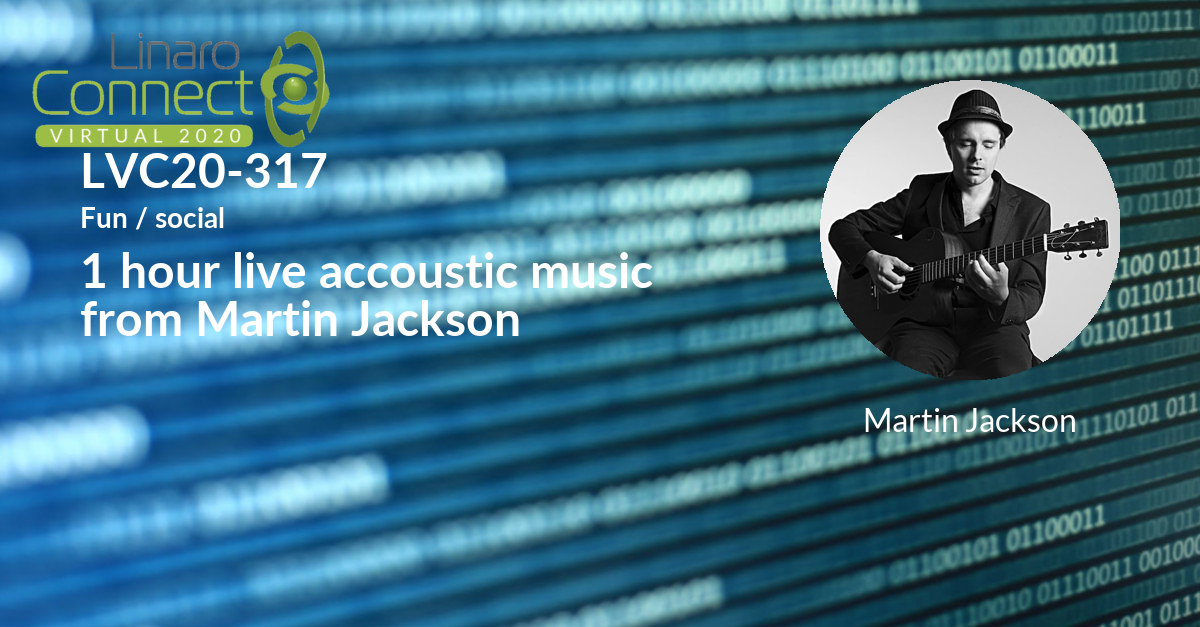
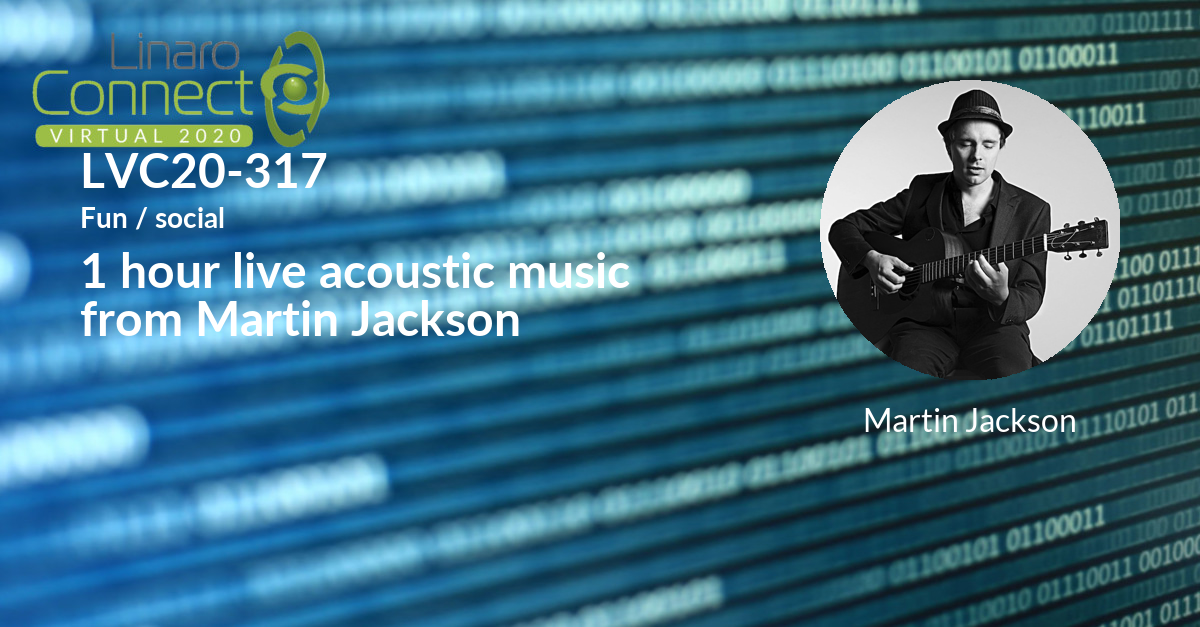
Event updates as of 200925-0946

Changed region(s): [[0.3083, 0.3939, 0.555, 0.4848]]

diff --git a/_posts/lvc20/sessions/2020-09-25-lvc20-303.md b/_posts/lvc20/sessions/2020-09-25-lvc20-303.md
@@ -1,0 +1,40 @@
+---
+categories:
+- lvc20
+description: "<p>From being called the 'new gold / oil', Big data technologies from\
+  \ its peak hype cycle have now matured as quintessential technology that powers\
+  \ many of today&rsquo;s businesses and enterprises. Most companies have changed\
+  \ themselves from being data-generating to data-powered, making use of actionable\
+  \ data and business insights. Big data is not just one piece of technology (Hadoop\
+  \ or Spark), rather it is a huge ecosystem, an assembly line of technologies and\
+  \ processes. There has been an increase in focus on data science and machine learning\
+  \ as a logical next step of evolution of Big Data. Data Strategy governs the quality\
+  \ of the data which acts as a precursor to data science and machine learning.</p>\r\
+  \n<p>In this talk, we will look at where ARM stands in regards to having big data\
+  \ systems running in production. We will look at various achievements in the last\
+  \ few years and also understand where we stand currently in the process of making\
+  \ ARM as the first class citizen. We will also cover some of the pain points we\
+  \ have faced and what is important to work on in the near future and beyond.</p>\r\
+  \n<p>Please join if you would like to know the status of Linaro&rsquo;s BDDS team\
+  \ and its roadmap.</p>\r\n<br />"
+image: /assets/images/featured-images/lvc20/LVC20-303.png
+session_id: LVC20-303
+session_room: '[Track 3] DataCenter'
+session_slot:
+  end_time: 2020-09-24 16:10
+  start_time: 2020-09-24 15:45
+session_speakers:
+- speaker_bio: Contributor to Apache Bigtop and other big data projects&lt;br /&gt;
+    Past TSC member of ODPi&lt;br /&gt; Vast implementation experience in Big Data
+    technologies.&lt;br /&gt; Working as Tech Lead - Big Data at Linaro for past 5
+    years
+  speaker_company: Linaro
+  speaker_image: http://avatars.sched.co/2/ed/7249937/avatar.jpg.320x320px.jpg?6ac
+  speaker_name: Ganesh Raju
+  speaker_position: Tech Lead, Big Data and Data Science Team
+  speaker_role: attendee, speaker
+session_track: Big Data
+tag: session
+tags: Big Data
+title: LVC20-303 State of Big Data and Data Science on ARM
+---

diff --git a/_posts/lvc20/sessions/2020-09-25-lvc20-220.md b/_posts/lvc20/sessions/2020-09-25-lvc20-220.md
@@ -1,10 +1,10 @@
 ---
 categories:
 - lvc20
-description: Class Description:<br><br>Join Kassidy for a 1 hour foundational vinyasa
+description: Class Description:<br><br>Join Kassidy for a 1-hour foundational vinyasa
   flow. In this class, we will move through a series of poses meant to ease tension
   in the shoulders, chest, and back. These are areas in the body that are often stressed
-  and over stretched while working at a computer or desk. Remember to bring something
+  and over-stretched while working at a computer or desk. Remember to bring something
   comfy to practice on, a mat, towel, or blanket!
 image: /assets/images/featured-images/lvc20/LVC20-220.png
 session_id: LVC20-220

diff --git a/_posts/lvc20/sessions/2020-09-25-lvc20-304.md b/_posts/lvc20/sessions/2020-09-25-lvc20-304.md
@@ -10,6 +10,12 @@ session_slot:
   end_time: 2020-09-24 16:50
   start_time: 2020-09-24 16:15
 session_speakers:
+- speaker_bio: Engineer at Linaro Ltd.
+  speaker_company: Linaro
+  speaker_image: http://avatars.sched.co/c/0f/1631652/avatar.jpg.320x320px.jpg?109
+  speaker_name: Amit Pundir
+  speaker_position: Engineer
+  speaker_role: attendee, speaker
 - speaker_bio: Yongqin Liu is a software engineer on the Linaro Consumer Group, and
     mainly works on LCR builds maintenance, SELinux, and optimizations on ARM processors
     for Android platform.

diff --git a/_posts/lvc20/sessions/2020-09-25-lvc20-105.md b/_posts/lvc20/sessions/2020-09-25-lvc20-105.md
@@ -31,7 +31,7 @@ session_speakers:
     including container and Kubernetes related technologies, deployment and management
     of containerized applications, etc.
   speaker_company: Linaro
-  speaker_image: http://avatars.sched.co/8/52/8935361/avatar.jpg.320x320px.jpg?31b
+  speaker_image: http://avatars.sched.co/8/52/8935361/avatar.jpg.320x320px.jpg?d0b
   speaker_name: Kevin Zhao
   speaker_position: Tech Lead, Linaro - LDCG - devops
   speaker_role: attendee, speaker

diff --git a/_posts/lvc20/sessions/2020-09-25-lvc20-117.md b/_posts/lvc20/sessions/2020-09-25-lvc20-117.md
@@ -34,7 +34,7 @@ session_speakers:
     including container and Kubernetes related technologies, deployment and management
     of containerized applications, etc.
   speaker_company: Linaro
-  speaker_image: http://avatars.sched.co/8/52/8935361/avatar.jpg.320x320px.jpg?31b
+  speaker_image: http://avatars.sched.co/8/52/8935361/avatar.jpg.320x320px.jpg?d0b
   speaker_name: Kevin Zhao
   speaker_position: Tech Lead, Linaro - LDCG - devops
   speaker_role: attendee, speaker

diff --git a/_posts/lvc20/sessions/2020-09-25-lvc20-317.md b/_posts/lvc20/sessions/2020-09-25-lvc20-317.md
@@ -20,5 +20,5 @@ session_speakers:
 session_track: Fun / social
 tag: session
 tags: Fun / social
-title: LVC20-317 1 hour live accoustic music from Martin Jackson
+title: LVC20-317 1 hour live acoustic music from Martin Jackson
 ---
